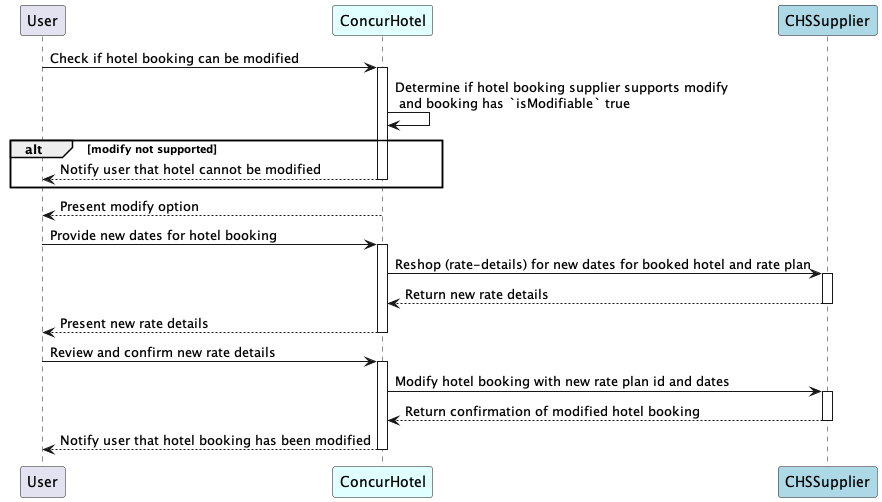
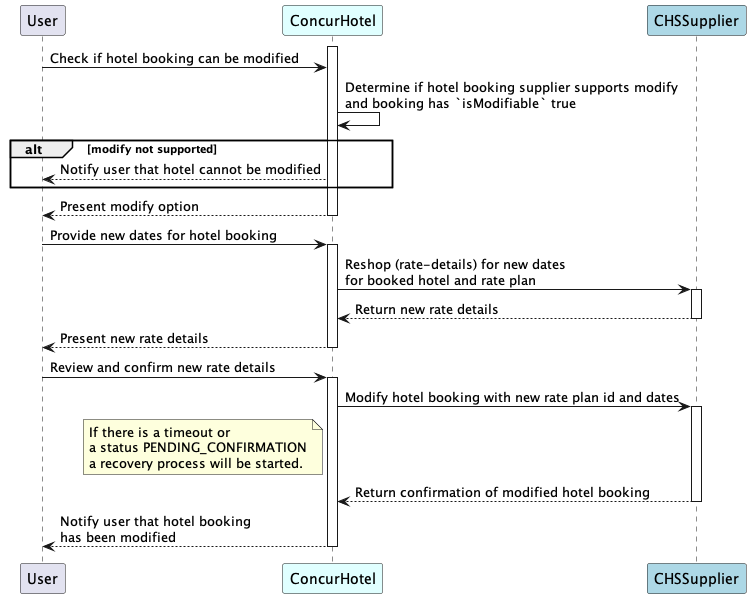
[skip ci] Updates

Changed region(s): [[0.0, 0.0, 0.9494, 1.0], [0.8575, 0.9263, 1.0, 1.0], [0.8575, 0.0, 1.0, 0.0896]]

diff --git a/api-reference/direct-connects/hotel-service-4/v4.hotel-modify-booking.html b/api-reference/direct-connects/hotel-service-4/v4.hotel-modify-booking.html
@@ -1310,7 +1310,20 @@
 
 <p>Below is the sequence diagram for the flow:</p>
 
-<p><img src="images/diagrams/hotel_modify.png" alt="" /></p>
+<p><img src="images/diagrams/hotel_modify.png" alt="Modify process" /></p>
+
+<h2 id="modify-recovery-process">Modify Recovery Process</h2>
+
+<p>In the case of a request timed out, SAP Concur will start a recovery process, in wich SAP Concur will try to confirm the status of the booking.
+Also if the supplier identifies that the modification cannot be confirmed in a timely manner, it can return a <code class="language-plaintext highlighter-rouge">PENDING_CONFIRMATION</code> status in the response to the <a href="./v4.endpoints.html#modify-">modify</a> request. In this case SAP Concur will also start a recovery process to confirm the status of the booking.</p>
+
+<p>In the process of recovery, SAP Concur will invoke the <a href="./v4.endpoints.html#read-">read</a> endpoint to get the state of the modified booking. If the returned booking have a <code class="language-plaintext highlighter-rouge">RESERVED</code> status and have the new dates requested by the user, then the booking is marked as confirmed. If the returned booking have a <code class="language-plaintext highlighter-rouge">PENDING_CONFIRMATION</code> status, SAP Concur will continue to invoke the <a href="./v4.endpoints.html#read-">read</a> endpoint until the endpoint return a booking with status <code class="language-plaintext highlighter-rouge">RESERVED</code> for a maximum of 1 day.
+If after 1 day the booking is still in <code class="language-plaintext highlighter-rouge">PENDING_CONFIRMATION</code> status, then SAP Concur will keep the booking status as Pending. When the user tries to view the booking, SAP Concur will call again the <a href="./v4.endpoints.html#read-">read</a> endpoint to sink the status of the booking with the supplier.
+If the returned booking have status of <code class="language-plaintext highlighter-rouge">RESERVED</code> but the dates of check-in and check-out are not the same as the dates requested by the user, then SAP Concur will consider the modification as failed and will notify the user about it.</p>
+
+<p>Below is the sequence diagram for the recovery flow:</p>
+
+<p><img src="images/diagrams/hotel_modify_recover.png" alt="Modify Recovery Process" /></p>
 
 <h2 id="requirements-for-chs-supplier">Requirements for CHS Supplier</h2>
 
@@ -1318,6 +1331,7 @@
   <li>Supplier is expected to set <a href="./v4.schemas.html#-hotelbooking"><code class="language-plaintext highlighter-rouge">isModifiable</code></a> flag to <code class="language-plaintext highlighter-rouge">true</code> in the booking response if they support <code class="language-plaintext highlighter-rouge">modify</code> feature for a given booking.</li>
   <li>Supplier will need to support <code class="language-plaintext highlighter-rouge">reshop</code> request via <a href="./v4.endpoints.html#rate-details-"><code class="language-plaintext highlighter-rouge">rate-details</code></a> providing detailed pricing for new dates on already booked hotel and rate-plan.</li>
   <li>Supplier will need to support <code class="language-plaintext highlighter-rouge">modify</code> request via <a href="./v4.endpoints.html#modify-"><code class="language-plaintext highlighter-rouge">modify</code></a> endpoint to update the booking with new dates.</li>
+  <li>Supplier is expected to set <code class="language-plaintext highlighter-rouge">status</code> to <code class="language-plaintext highlighter-rouge">PENDING_CONFIRMATION</code> in the response of <a href="./v4.endpoints.html#read-">read</a> endpoint if the modification is not confirmed.</li>
 </ul>
 
 

diff --git a/api-reference/direct-connects/hotel-service-4/v4.endpoints.html b/api-reference/direct-connects/hotel-service-4/v4.endpoints.html
@@ -2794,7 +2794,7 @@
 
 <h2 id="modify-">Modify <a id="opIdmodify"></a></h2>
 
-<p>Modify a specific reservation.</p>
+<p>Modify a specific reservation. For more details about the modification process, please read <a href="./v4.hotel-modify-booking.html">Hotel modify support for CHS</a></p>
 
 <h3 id="uri-7">URI</h3>
 
